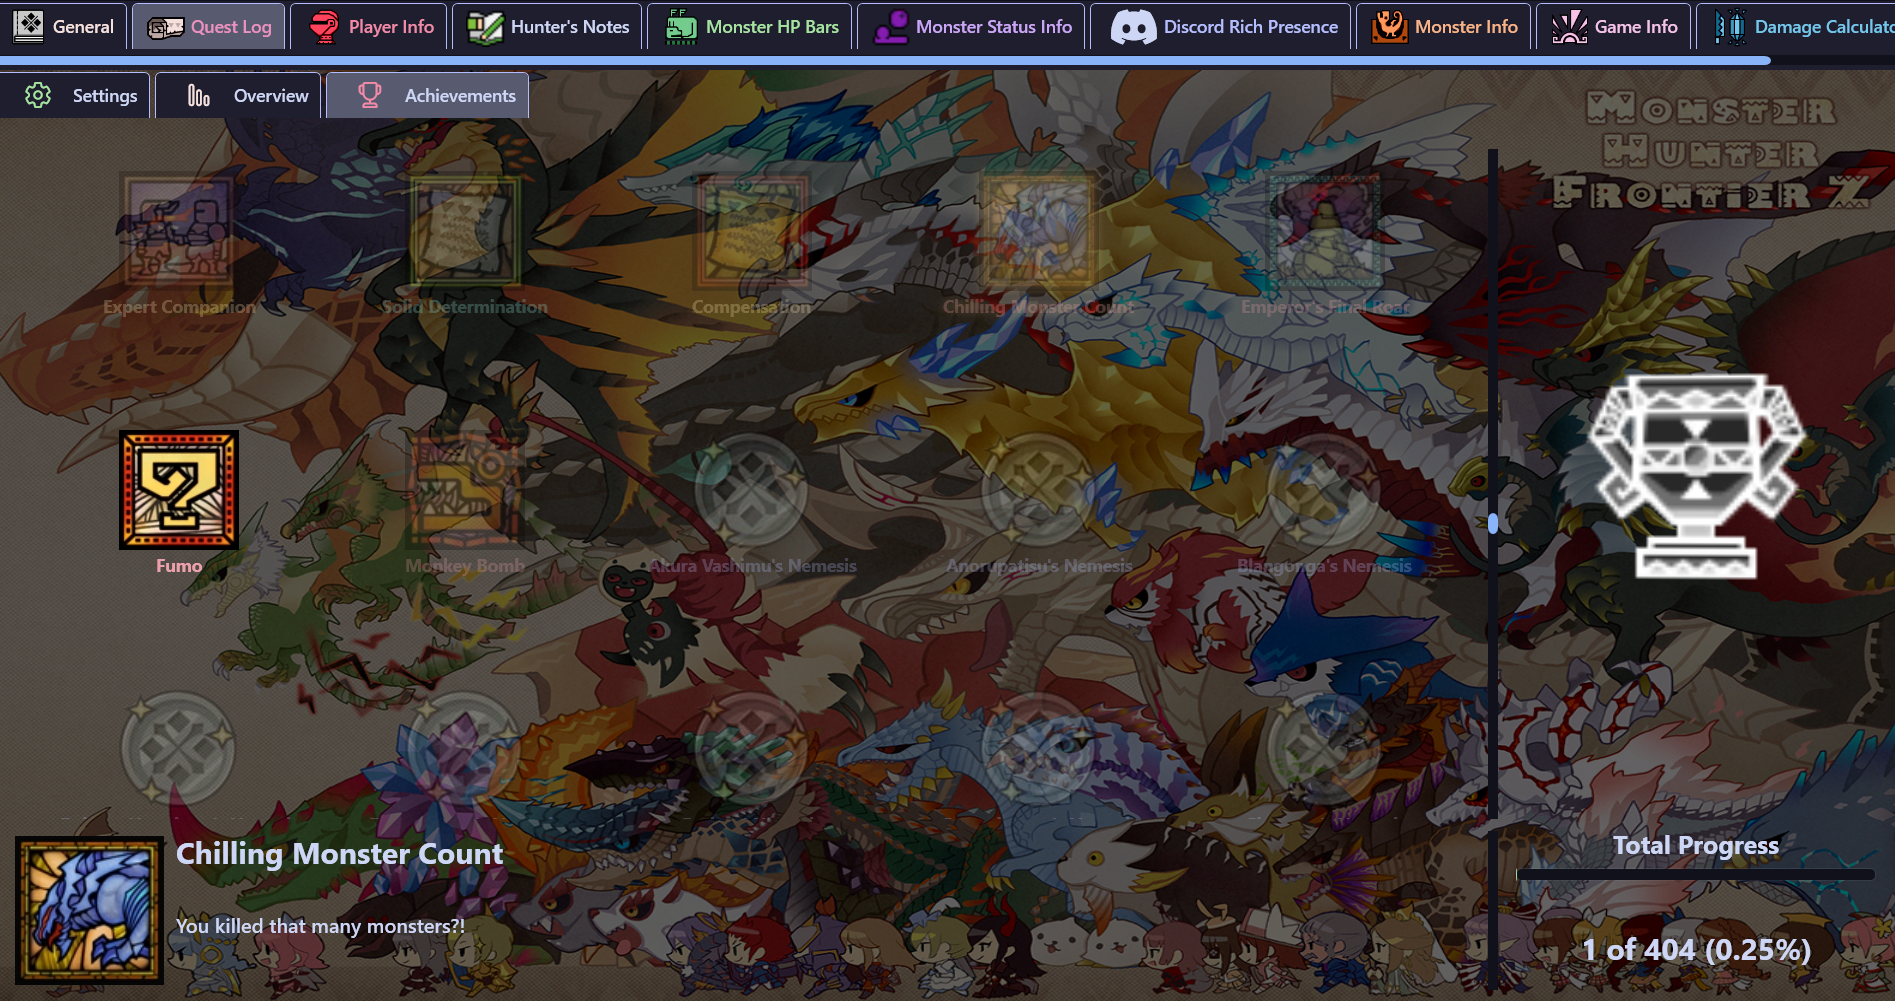
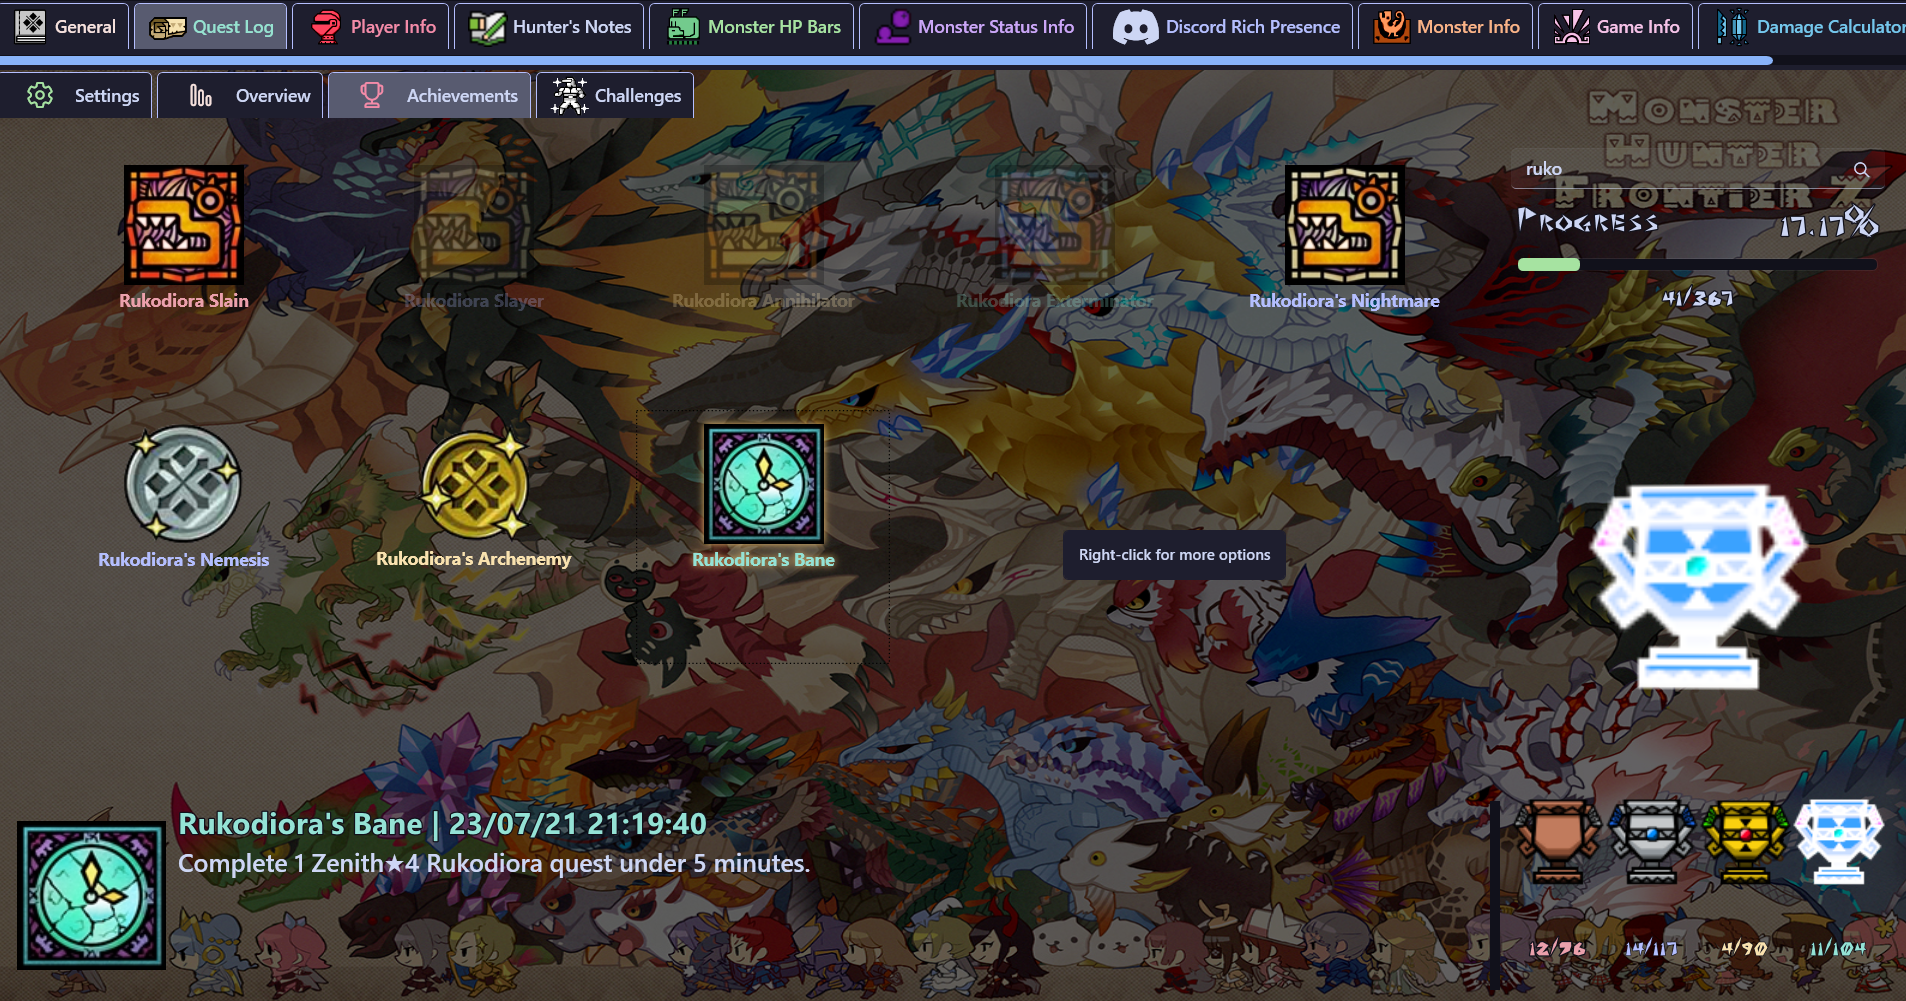
docs(README): add context menu section

diff --git a/README.md b/README.md
@@ -36,6 +36,7 @@
     - [Hunter Sets (Image)](#hunter-sets-image)
     - [Damage Calculator](#damage-calculator)
     - [Achievements](#achievements)
+    - [Context Menus](#context-menus)
   - [Features not yet implemented](#features-not-yet-implemented)
   - [Bugs](#bugs)
   - [Frequently Asked Questions](#frequently-asked-questions)
@@ -280,6 +281,17 @@ These images don't show everything, find out what's missing by pressing `Shift+F
 ### Achievements
 
 ![achievements](./demo/achievements.png)
+
+### Context Menus
+
+Some sections have context menus where you can save the section contents to a file or copy to clipboard as either an image or text. In order to view the context menus you have to right click on the section contents. To see if a section has these context menus, hover over the section contents and a tooltip will show, saying "Right-click for more options".
+
+![contextmenu1](./demo/contextmenu1.png)
+![contextmenu2](./demo/contextmenu2.png)
+
+![contextmenu3](./demo/contextmenu3.png)
+![contextmenu4](./demo/contextmenu4.png)
+![contextmenu5](./demo/contextmenu5.png)
 
 ## Features not yet implemented
 
